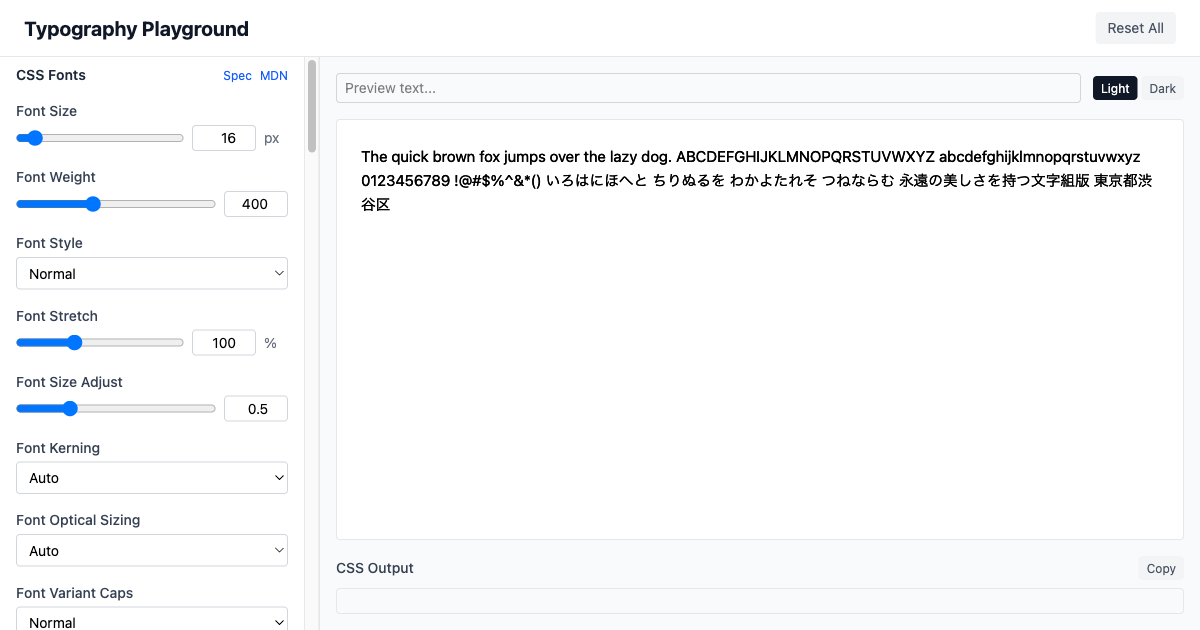
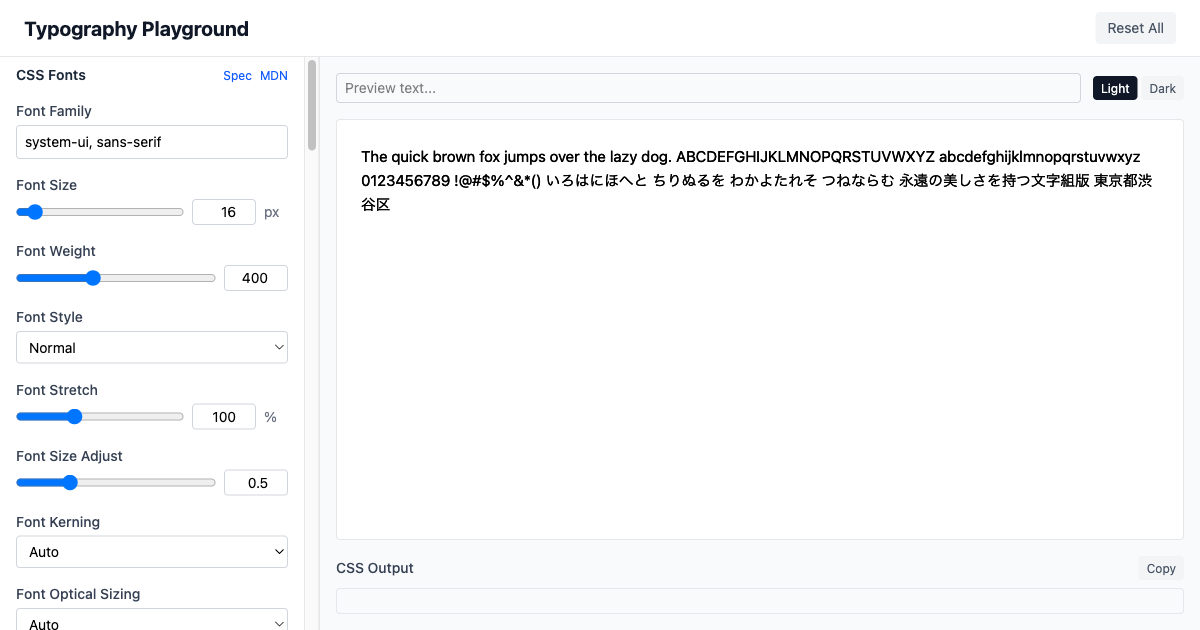
feat: font-family プロパティ追加と CSS 値サニタイズ
- font-family をテキスト入力で操作可能にし全 40 プロパティを網羅
- DOMPurify + 正規表現の多層防御で CSS 値をサニタイズ（将来の URL Share 機能に備える）
- OGP 画像を更新し README にも掲載

diff --git a/src/shared/utils/sanitize.test.ts b/src/shared/utils/sanitize.test.ts
@@ -1,0 +1,49 @@
+import { describe, it, expect } from "vitest";
+import { sanitizeCSSValue } from "./sanitize";
+
+describe("sanitizeCSSValue", () => {
+  it("通常の CSS 値はそのまま返す", () => {
+    expect(sanitizeCSSValue("16px")).toBe("16px");
+    expect(sanitizeCSSValue("bold")).toBe("bold");
+    expect(sanitizeCSSValue("#ff0000")).toBe("#ff0000");
+    expect(sanitizeCSSValue("'Noto Sans JP', sans-serif")).toBe(
+      "'Noto Sans JP', sans-serif",
+    );
+  });
+
+  it("url() を含む値はサニタイズされる", () => {
+    expect(sanitizeCSSValue("url(https://evil.com/track.gif)")).not.toContain(
+      "url(",
+    );
+  });
+
+  it("URL の大文字小文字バリエーションも除去する", () => {
+    expect(sanitizeCSSValue("URL(https://evil.com)")).not.toContain("URL(");
+    expect(sanitizeCSSValue("Url(https://evil.com)")).not.toContain("Url(");
+  });
+
+  it("expression() を除去する", () => {
+    expect(sanitizeCSSValue("expression(alert(1))")).not.toContain(
+      "expression(",
+    );
+  });
+
+  it("javascript: プロトコルを除去する", () => {
+    expect(sanitizeCSSValue("javascript:alert(1)")).not.toContain(
+      "javascript:",
+    );
+  });
+
+  it("空文字列はそのまま返す", () => {
+    expect(sanitizeCSSValue("")).toBe("");
+  });
+
+  it("複数の危険パターンを同時に除去する", () => {
+    const result = sanitizeCSSValue(
+      "url(evil) expression(bad) javascript:x",
+    );
+    expect(result).not.toContain("url(");
+    expect(result).not.toContain("expression(");
+    expect(result).not.toContain("javascript:");
+  });
+});

diff --git a/src/shared/utils/sanitize.ts b/src/shared/utils/sanitize.ts
@@ -1,0 +1,38 @@
+import DOMPurify from "dompurify";
+
+const DANGEROUS_PATTERNS: readonly RegExp[] = [
+  /url\s*\([^()]*(?:\([^()]*\)[^()]*)*\)/gi,
+  /expression\s*\([^()]*(?:\([^()]*\)[^()]*)*\)/gi,
+  /javascript\s*:/gi,
+];
+
+const stripDangerousPatterns = (value: string): string => {
+  let result = value;
+  for (const pattern of DANGEROUS_PATTERNS) {
+    result = result.replace(pattern, "");
+  }
+  return result;
+};
+
+const PROPERTY_KEY = "--_sanitize";
+
+const sanitizeViaDOMPurify = (value: string): string => {
+  const escaped = value.replace(/"/g, "&quot;");
+  const dirty = `<span style="${PROPERTY_KEY}: ${escaped}"></span>`;
+  const clean = DOMPurify.sanitize(dirty, {
+    ALLOWED_TAGS: ["span"],
+    ALLOWED_ATTR: ["style"],
+  });
+
+  const match = clean.match(new RegExp(`${PROPERTY_KEY}:\\s*([^"]*)`));
+  if (!match) return "";
+
+  return match[1].replace(/;?\s*$/, "");
+};
+
+export const sanitizeCSSValue = (value: string): string => {
+  if (value === "") return "";
+
+  const afterDOMPurify = sanitizeViaDOMPurify(value);
+  return stripDangerousPatterns(afterDOMPurify);
+};

diff --git a/src/shared/utils/css.test.ts b/src/shared/utils/css.test.ts
@@ -33,4 +33,22 @@ describe("buildAppliedStyles", () => {
     const result = buildAppliedStyles({});
     expect(result).toEqual({});
   });
+
+  it("url() を含む値はサニタイズされる", () => {
+    const state = { "font-family": "url(https://evil.com)" };
+    const result = buildAppliedStyles(state);
+    expect(result).toEqual({ fontFamily: "" });
+  });
+
+  it("expression() を含む値はサニタイズされる", () => {
+    const state = { "color": "expression(alert(1))" };
+    const result = buildAppliedStyles(state);
+    expect(result).toEqual({ color: "" });
+  });
+
+  it("通常の値はサニタイズの影響を受けない", () => {
+    const state = { "font-family": "'Noto Sans JP', sans-serif" };
+    const result = buildAppliedStyles(state);
+    expect(result).toEqual({ fontFamily: "'Noto Sans JP', sans-serif" });
+  });
 });

diff --git a/src/shared/types/typography.ts b/src/shared/types/typography.ts
@@ -3,7 +3,6 @@ export type ControlType =
   | "select"
   | "color"
   | "text"
-  | "font-family"
   | "multi-value"
   | "axis-slider-group";
 
@@ -60,7 +59,6 @@ export type PropertyDefinition =
   | (PropertyDefinitionBase & Readonly<{ controlType: "select"; config: SelectConfig }>)
   | (PropertyDefinitionBase & Readonly<{ controlType: "color" }>)
   | (PropertyDefinitionBase & Readonly<{ controlType: "text" }>)
-  | (PropertyDefinitionBase & Readonly<{ controlType: "font-family" }>)
   | (PropertyDefinitionBase & Readonly<{ controlType: "multi-value"; config: MultiValueConfig }>)
   | (PropertyDefinitionBase &
       Readonly<{ controlType: "axis-slider-group"; config: AxisConfig }>);

diff --git a/src/shared/utils/css.ts b/src/shared/utils/css.ts
@@ -1,4 +1,5 @@
 import type React from "react";
+import { sanitizeCSSValue } from "./sanitize";
 
 export const cssPropertyToReact = (cssProperty: string): string =>
   cssProperty.replace(/-([a-z])/g, (_, char: string) => char.toUpperCase());
@@ -9,7 +10,7 @@ export const buildAppliedStyles = (
   const styles: Record<string, string> = {};
   for (const [key, value] of Object.entries(state)) {
     if (value !== undefined) {
-      styles[cssPropertyToReact(key)] = value;
+      styles[cssPropertyToReact(key)] = sanitizeCSSValue(value);
     }
   }
   return styles;

diff --git a/src/shared/data/properties/font.ts b/src/shared/data/properties/font.ts
@@ -2,6 +2,13 @@ import type { PropertyDefinition } from "../../types/typography";
 
 export const fontProperties: readonly PropertyDefinition[] = [
   {
+    cssProperty: "font-family",
+    label: "Font Family",
+    description: "フォントファミリーを設定します",
+    defaultValue: "system-ui, sans-serif",
+    controlType: "text",
+  },
+  {
     cssProperty: "font-size",
     label: "Font Size",
     description: "テキストのフォントサイズを設定します",

diff --git a/src/shared/data/properties/font.test.ts b/src/shared/data/properties/font.test.ts
@@ -2,8 +2,8 @@ import { describe, it, expect } from "vitest";
 import { fontProperties } from "./font";
 
 describe("fontProperties", () => {
-  it("11 個のプロパティが定義されている", () => {
-    expect(fontProperties).toHaveLength(11);
+  it("12 個のプロパティが定義されている", () => {
+    expect(fontProperties).toHaveLength(12);
   });
 
   it("すべてのプロパティに必須フィールドがある", () => {

diff --git a/docs/architecture.md b/docs/architecture.md
@@ -95,19 +95,16 @@ src/
 │   │   └── typography.ts              # PropertyDefinition, PropertyCategory 等
 │   ├── data/
 │   │   ├── categories.ts              # カテゴリ組み立て
-│   │   ├── fonts.ts                   # Google Fonts一覧 (80フォント)
 │   │   └── properties/
-│   │       ├── basicText.ts           # Basic Text (10)
-│   │       ├── decorationTransform.ts # Decoration & Transform (10)
-│   │       ├── advanced.ts            # Advanced (12)
-│   │       └── opentype.ts            # OpenType Features (8)
+│   │       ├── font.ts                # CSS Fonts (12)
+│   │       ├── text.ts                # CSS Text (17)
+│   │       ├── textDecoration.ts      # CSS Text Decoration (7)
+│   │       └── writingModes.ts        # CSS Writing Modes (3)
 │   ├── hooks/
 │   │   ├── useTypographyState.ts      # useReducer + Context
-│   │   ├── useGoogleFonts.ts          # フォント読み込み
 │   │   └── useCSSOutput.ts            # CSS文字列生成
 │   ├── utils/
-│   │   ├── css.ts                     # kebab→camelCase変換
-│   │   └── fonts.ts                   # フォントURL構築
+│   │   └── css.ts                     # kebab→camelCase変換
 │   └── ui/                            # 汎用UIパーツ (どこからでも使える)
 │       ├── Tooltip.tsx                # ツールチップ
 │       └── CopyButton.tsx             # コピーボタン
@@ -123,7 +120,6 @@ src/
 │   │       ├── SelectInput.tsx        # ドロップダウン
 │   │       ├── ColorInput.tsx         # カラーピッカー
 │   │       ├── TextInput.tsx          # テキスト入力
-│   │       ├── FontFamilyInput.tsx    # フォント選択
 │   │       ├── MultiValueInput.tsx    # 複合値 (text-shadow)
 │   │       └── AxisSliderGroup.tsx    # Variable Font軸
 │   └── preview/                       # プレビュー機能
@@ -167,7 +163,7 @@ src/
 
 | プロパティ | コントロール | 設定 |
 |---|---|---|
-| font-family | font-family | Google Fonts検索 |
+| font-family | text | 自由入力 |
 | font-size | slider | 8–120px, step 1 |
 | font-weight | slider | 100–900, step 100 |
 | font-style | select | normal / italic / oblique |
@@ -232,16 +228,7 @@ src/
 | `slider` | 数値範囲 (range + number入力) | font-size, line-height |
 | `select` | 列挙値ドロップダウン | font-style, text-align |
 | `color` | カラーピッカー | color, text-decoration-color |
-| `text` | 自由テキスト入力 | font-feature-settings, column-rule |
-| `font-family` | Google Fonts検索・選択 | font-family |
+| `text` | 自由テキスト入力 | font-family, font-feature-settings |
 | `multi-value` | 複合値（複数サブ値の組み合わせ） | text-shadow |
 | `axis-slider-group` | Variable Font軸スライダー群 | font-variation-settings |
 
----
-
-## Google Fonts連携
-
-- **APIキー不要**: 厳選80フォントを静的データとして保持
-- 動的 `<link>` タグ挿入でオンデマンド読み込み
-- カテゴリ: Sans-serif / Serif / Monospace / Display / Handwriting
-- **日本語フォント対応**: Noto Sans JP, Noto Serif JP, M PLUS Rounded 1c 等

diff --git a/plan/20260209-phase-8-google-fonts-plan.md b/plan/20260209-phase-8-google-fonts-plan.md
@@ -1,0 +1,50 @@
+# Phase 8: font-family 追加 実装プラン
+
+## Context
+
+Phase 7 までで 4 カテゴリ 39 プロパティが完動しているが、`font-family` だけが未実装。Phase 8 で font-family プロパティをテキスト入力として追加し、全 40 プロパティを操作可能にする。
+
+## 方針
+
+font-family はテキスト入力 (`controlType: "text"`) で CSS font-family 値を自由に設定する。ローカルフォント（システムフォント）も含め任意の値を入力可能。
+
+## 進捗
+
+| Step | 内容 | 状態 |
+|---|---|---|
+| 8-1 | font-family プロパティ定義追加 | done |
+| 8-2 | 動作確認 | done |
+
+---
+
+## Step 8-1: font-family プロパティ定義追加
+
+### 変更ファイル
+
+| ファイル | 操作 |
+|---|---|
+| `src/shared/data/properties/font.ts` | 変更 — font-family 定義追加 |
+
+### プロパティ定義
+
+```ts
+{
+  cssProperty: "font-family",
+  label: "Font Family",
+  description: "フォントファミリーを設定します",
+  defaultValue: "system-ui, sans-serif",
+  controlType: "text",
+}
+```
+
+---
+
+## Step 8-2: 動作確認
+
+### 検証項目
+
+- `pnpm vitest run` — 全テスト pass
+- `pnpm build` — 型エラーなくビルド完了
+- テキスト入力で font-family 値を変更 → プレビュー反映
+- CSS 出力に font-family が正しく出力される
+- 全 40 プロパティが完全動作

diff --git a/README.md b/README.md
@@ -2,18 +2,19 @@
 
 CSS タイポグラフィプロパティをリアルタイムプレビューで対話的に探索できるブラウザベースツール。
 
+![Typography Playground](public/ogp.png)
+
 **Demo**: https://yend724.github.io/typography-playground/
 
 ## 機能
 
-- **38 種類の CSS プロパティ** を CSS 仕様ベースの 4 カテゴリに分類してインタラクティブに操作
-  - CSS Fonts (font-size, font-weight, font-variation-settings など 11 種)
+- **40 種類の CSS プロパティ** を CSS 仕様ベースの 4 カテゴリに分類してインタラクティブに操作
+  - CSS Fonts (font-family, font-size, font-weight, font-variation-settings など 12 種)
   - CSS Text (color, line-height, text-align, text-transform など 17 種)
   - CSS Text Decoration (text-decoration-line, text-shadow など 7 種)
   - CSS Writing Modes (writing-mode, direction など 3 種)
 - **リアルタイムプレビュー** でスタイル変更を即座に確認
 - **CSS 出力** で変更したプロパティのコードをワンクリックコピー
-- **Google Fonts 連携** で 80 種類のフォント (日本語フォント含む) を選択可能
 - **レスポンシブ対応** でモバイルでもタブ切り替えで操作可能
 
 ## 技術スタック

diff --git a/CLAUDE.md b/CLAUDE.md
@@ -25,7 +25,7 @@ pnpm vitest <path>   # 単一テストファイル実行
 
 詳細は `docs/architecture.md` を参照。要点：
 
-**データ駆動設計**: 各 CSS プロパティは `shared/data/properties/` 内の `PropertyDefinition` オブジェクト。`PropertyControl` が `controlType`（slider, select, color, text, font-family, multi-value, axis-slider-group）に応じて適切な入力コンポーネントにディスパッチする。
+**データ駆動設計**: 各 CSS プロパティは `shared/data/properties/` 内の `PropertyDefinition` オブジェクト。`PropertyControl` が `controlType`（slider, select, color, text, multi-value, axis-slider-group）に応じて適切な入力コンポーネントにディスパッチする。
 
 **データフロー**: `useTypographyState`（useReducer + Context）が全プロパティ値を `Record<string, string | undefined>` として保持。コントロールは `setProperty()` で書き込み、プレビューは `appliedStyles`（算出された `React.CSSProperties`）を読み取り、`useCSSOutput` が CSS 文字列を生成する。
 
